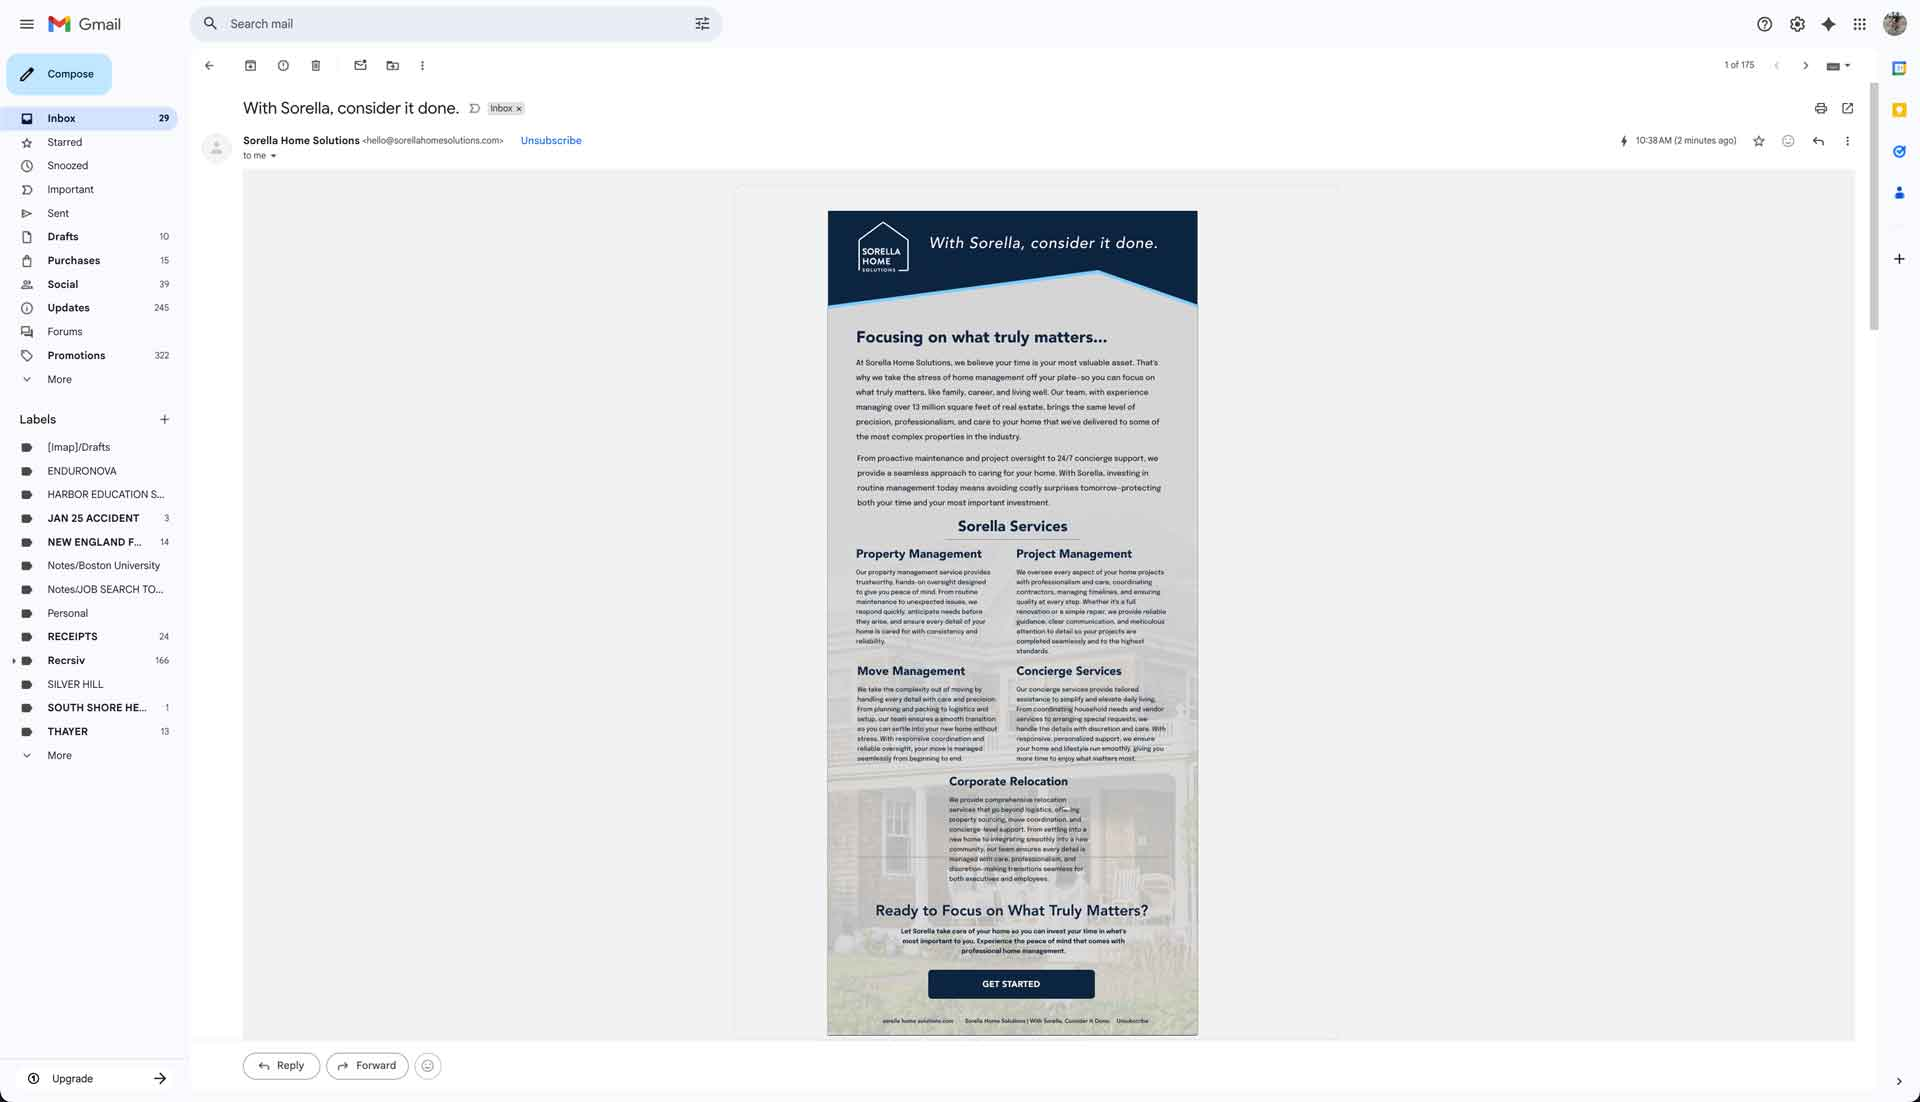
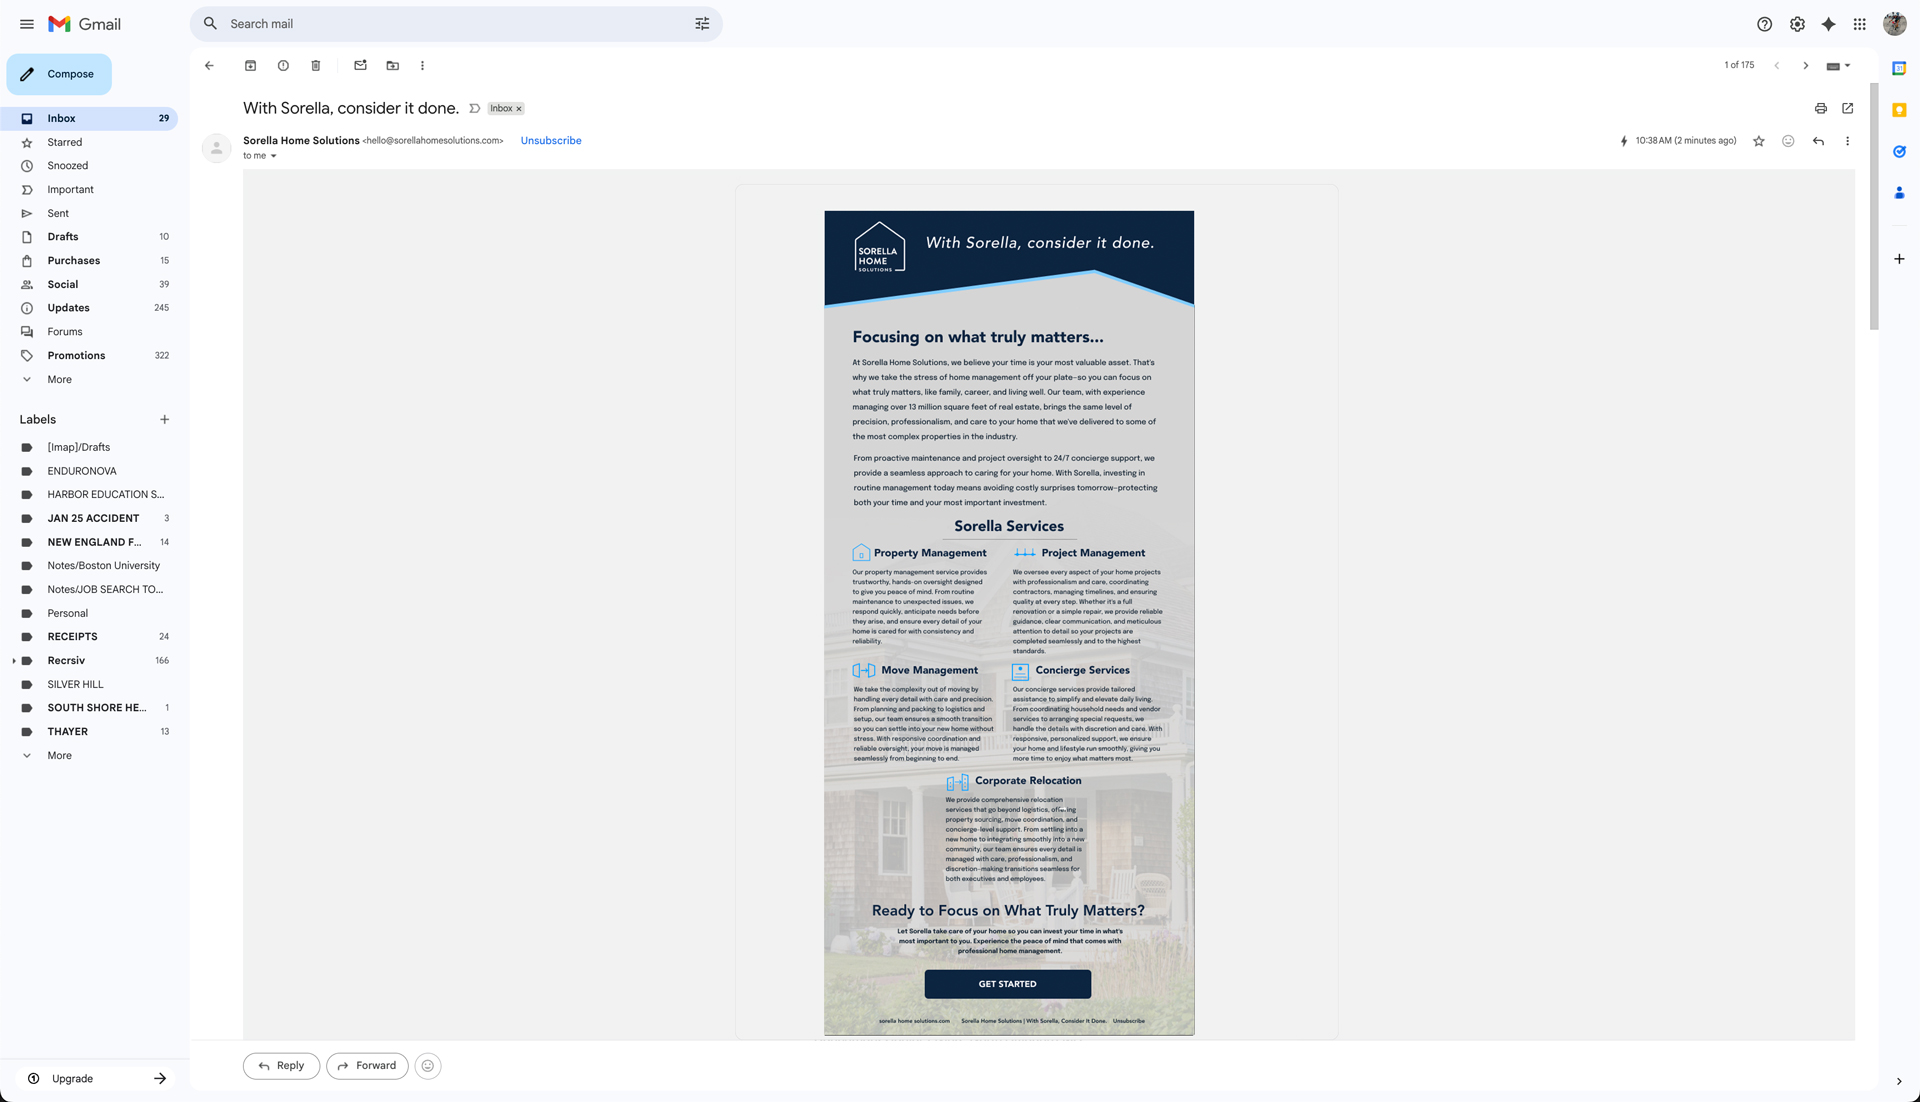
feat: add email campaign section to Sorella project and bump seeder to v196

diff --git a/client/src/app/components/print-detail/print-detail.html b/client/src/app/components/print-detail/print-detail.html
@@ -154,6 +154,24 @@
             </div>
           </div>
         </section>
+        
+        <section class="email-mockups email-mockups-floating">
+          <div class="campaigns-wrap">
+            <h2>Email Campaign</h2>
+            <div class="email-layout-floating">
+              <!-- Featured email design - larger with visual hierarchy -->
+              <div class="email-featured-floating">
+                <img src="/assets/projects/sorella/email/sorella-email.jpg" alt="Sorella Email Template Design" class="ad-tile" data-modal-src="/assets/projects/sorella/email/sorella-email.jpg" data-meta="Sorella Email Template Design">
+                <p class="email-caption">Email Template Design</p>
+              </div>
+              <!-- Gmail mockup - smaller, showing context -->
+              <div class="email-secondary-floating">
+                <img src="/assets/projects/sorella/email/sorella-email-mockup.jpg" alt="Sorella Gmail Inbox Mockup" class="ad-tile" data-modal-src="/assets/projects/sorella/email/sorella-email-mockup.jpg" data-meta="Sorella Gmail Inbox Mockup">
+                <p class="email-caption">Gmail Inbox Mockup</p>
+              </div>
+            </div>
+          </div>
+        </section>
 
         <div class="sorella-print-layout">
           <div class="campaigns-wrap">

diff --git a/server/src/projects/seed.service.ts b/server/src/projects/seed.service.ts
@@ -14,8 +14,8 @@ export class SeedService implements OnModuleInit {
   ) {}
 
   async onModuleInit() {
-    const SEEDER_VERSION = 'v195';
-    this.logger.log(`FORCE SEED: v195`);
+    const SEEDER_VERSION = 'v196';
+    this.logger.log(`FORCE SEED: v196`);
     this.logger.log(`Starting project seeding process [${SEEDER_VERSION}]...`);
 
     try {
@@ -191,6 +191,8 @@ export class SeedService implements OnModuleInit {
             '/assets/projects/sorella/stationary web/sorella-postcard-mockup.jpg',
             '/assets/projects/sorella/stationary web/sorella-envelope-mpckup.jpg',
             '/assets/projects/sorella/stationary web/sorella-stationary-mockup2.jpg',
+            '/assets/projects/sorella/email/sorella-email.jpg',
+            '/assets/projects/sorella/email/sorella-email-mockup.jpg',
           ],
           mockupUrl: '/assets/projects/sorella/sorella-mockup.jpg',
           content:
